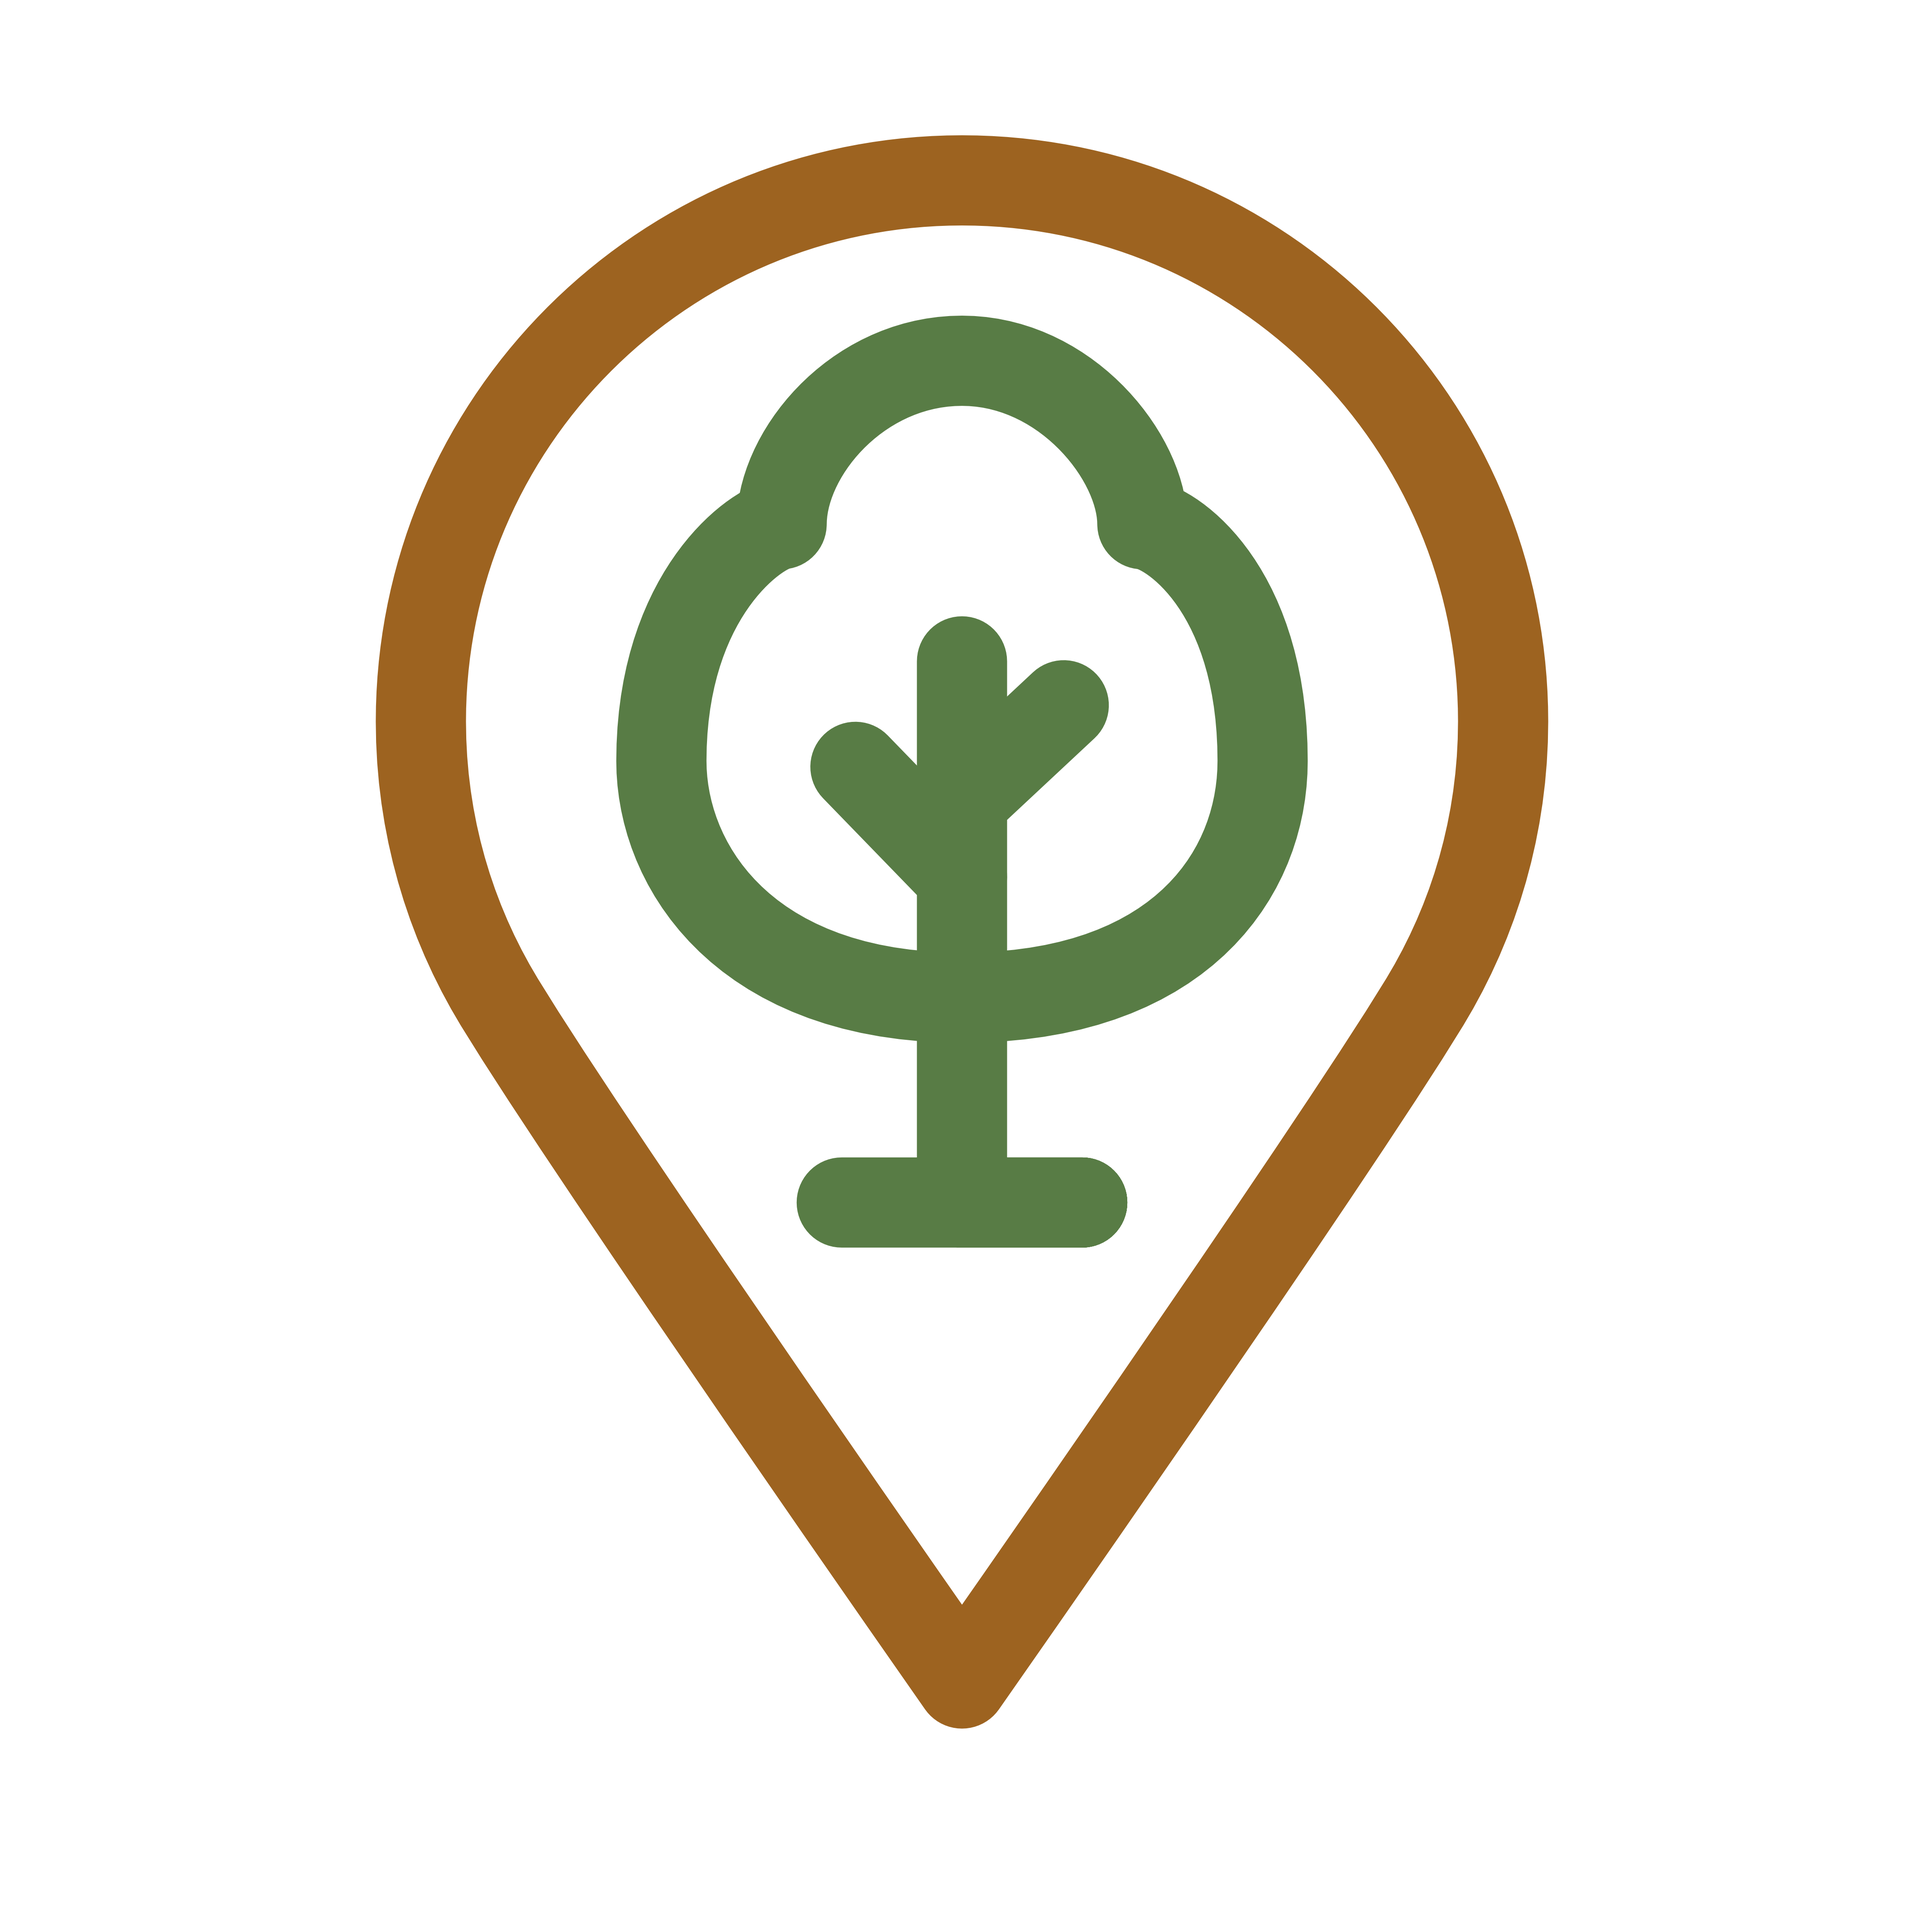
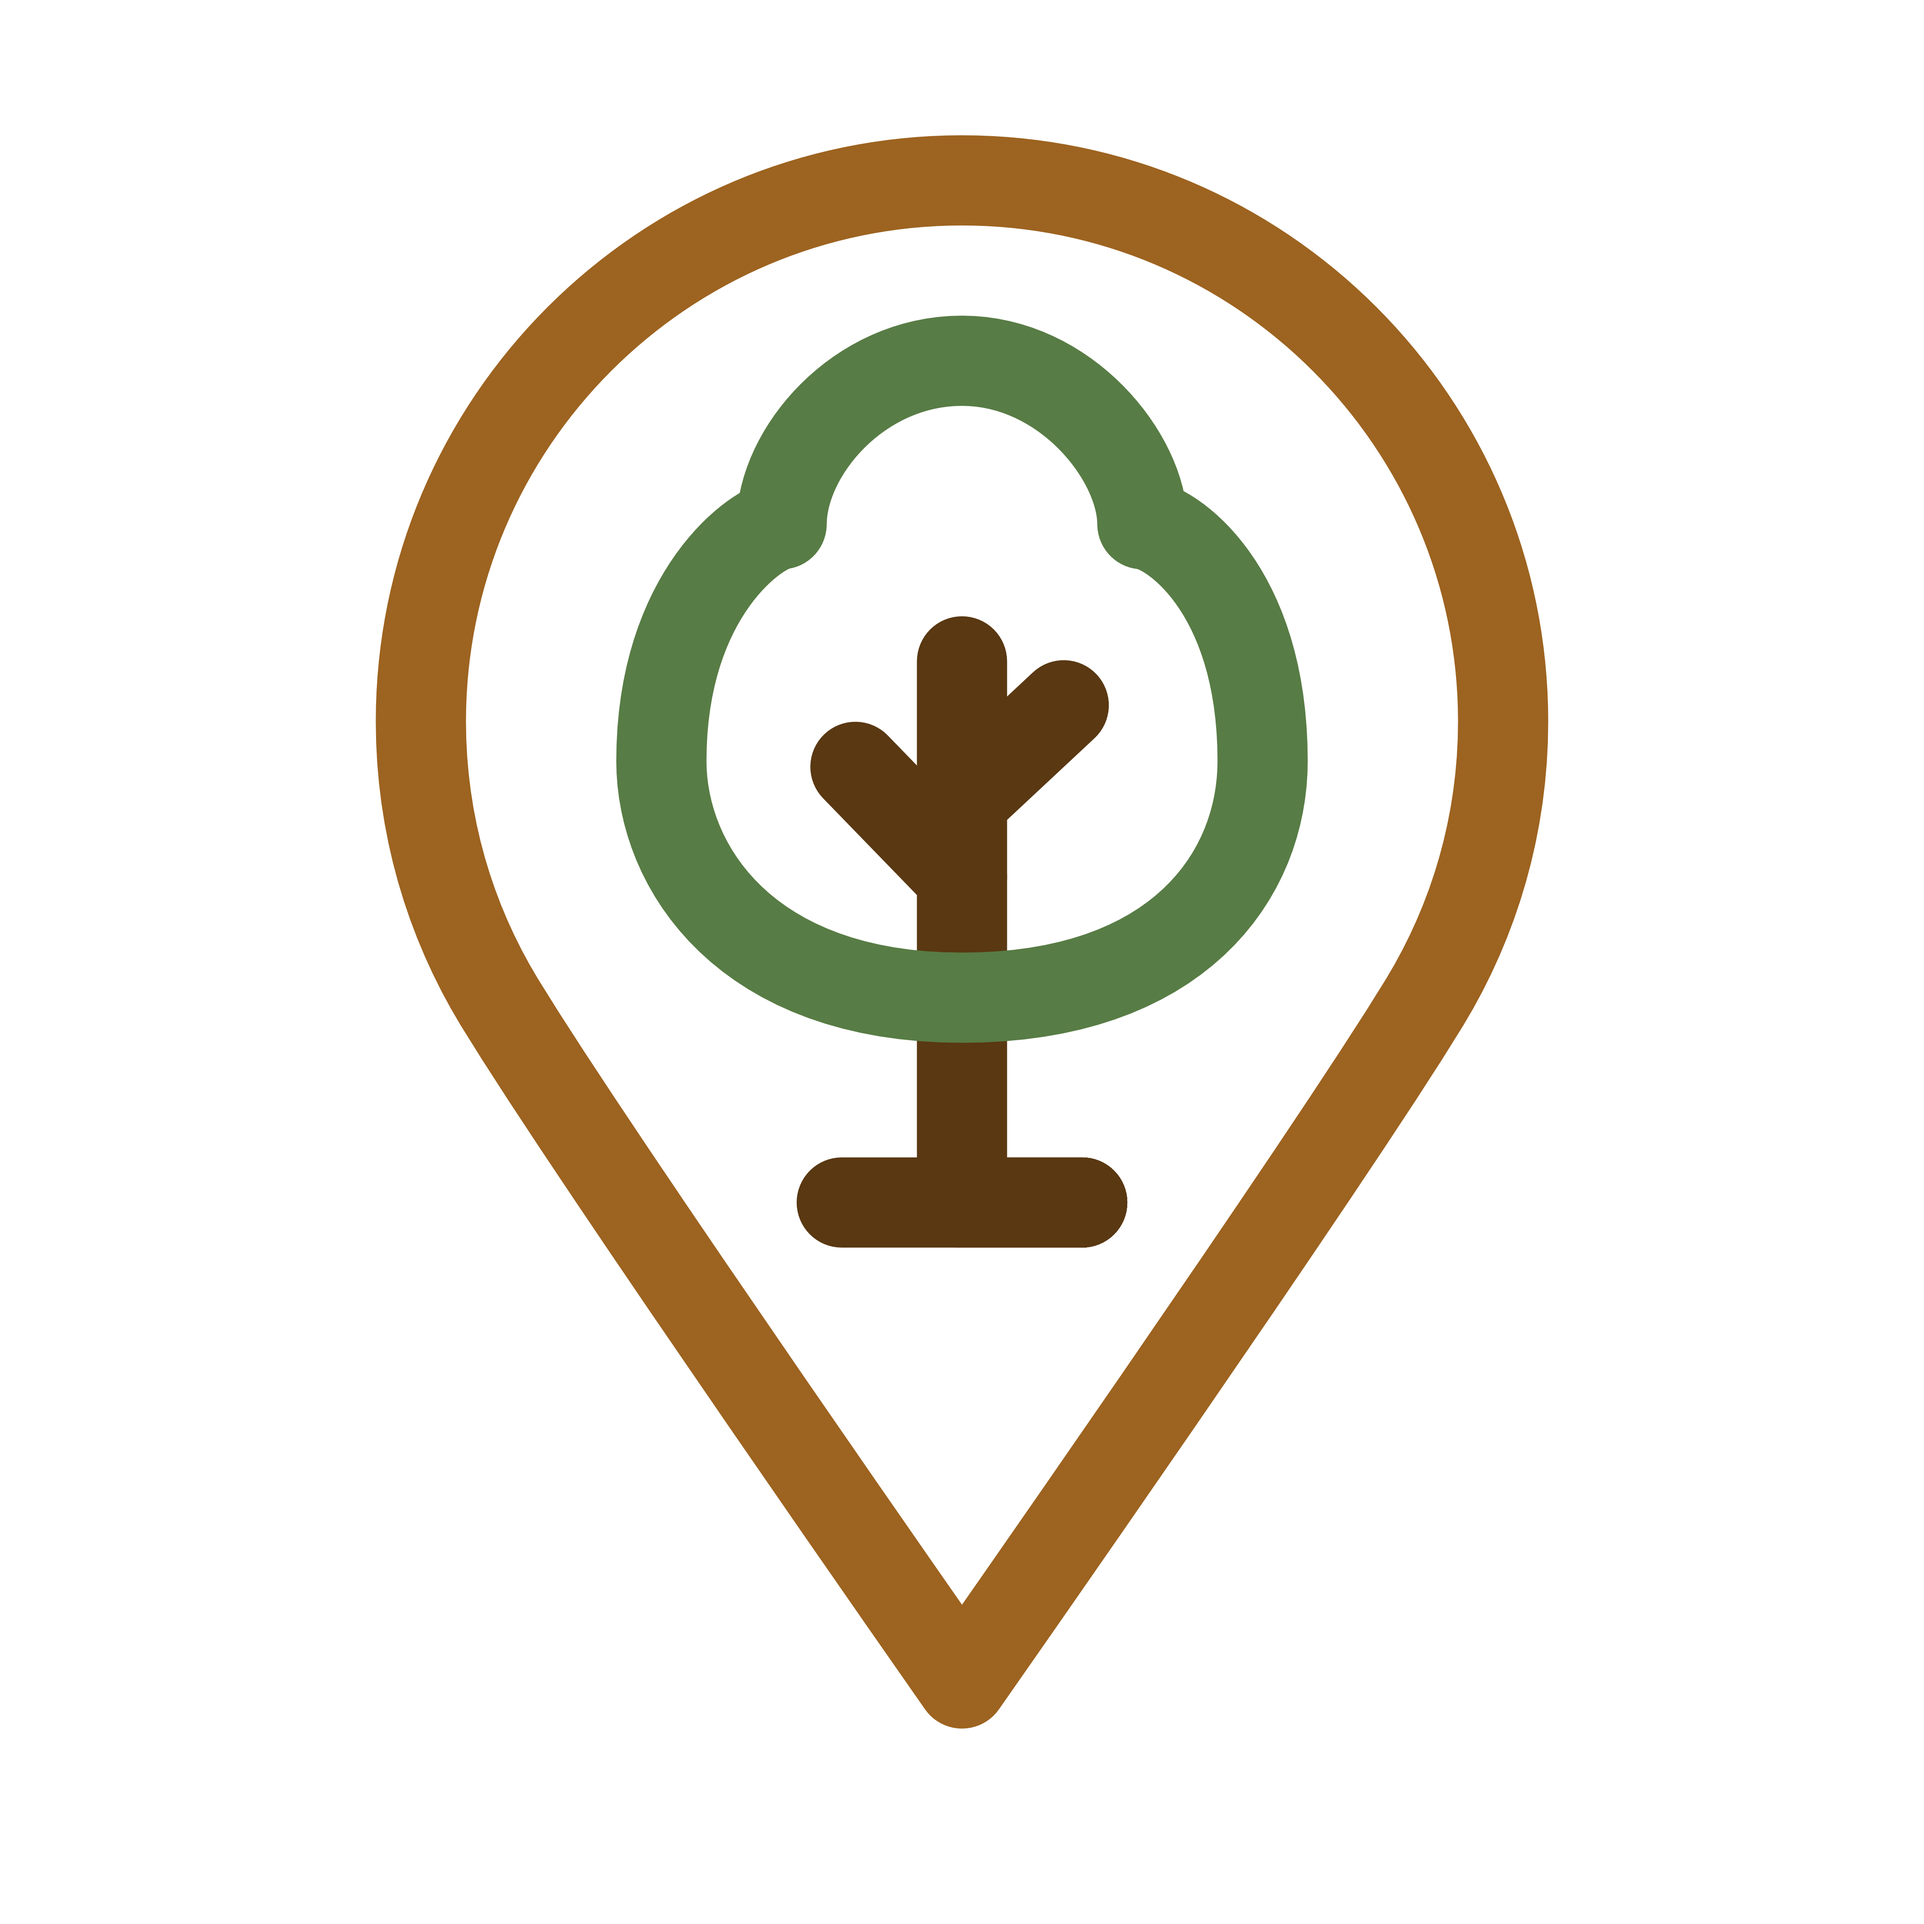
Update app metadata and assets

Changed region(s): [[0.4052, 0.3117, 0.5922, 0.4987], [0.4052, 0.5299, 0.5922, 0.6546]]

diff --git a/components/sections/webPageHeader/__tests__/WebPageHeader.test.tsx b/components/sections/webPageHeader/__tests__/WebPageHeader.test.tsx
@@ -3,6 +3,7 @@ import { render, screen, fireEvent, waitFor, within } from '@testing-library/rea
 import { Size } from '@/constants/theme';
 import { WebPageHeader } from '../WebPageHeader';
 import { IconHelpCircle } from '@/assets/icons';
+import { useColorScheme } from '@/hooks/useColorScheme';
 import { useResponsive } from '@/hooks/useResponsive';
 import { StyleSheet, View } from 'react-native';
 
@@ -18,6 +19,10 @@ jest.mock('@/hooks/useResponsive', () => ({
   useResponsive: jest.fn(),
 }));
 
+jest.mock('@/hooks/useColorScheme', () => ({
+  useColorScheme: jest.fn(),
+}));
+
 const mockFetchSpeciesList = jest.fn();
 const mockFetchRelativeRankings = jest.fn();
 
@@ -28,9 +33,12 @@ jest.mock('@/data/api', () => ({
 }));
 
 const mockUseResponsive = useResponsive as jest.MockedFunction<typeof useResponsive>;
+const mockUseColorScheme = useColorScheme as jest.MockedFunction<typeof useColorScheme>;
 
 const SEARCH_WRAPPER_LAYOUT_HEIGHT = 40;
 const SEARCH_DEBOUNCE_MS = 400;
+const DEFAULT_LOGO_LIGHT = require('@/assets/images/wherewild.png');
+const DEFAULT_LOGO_DARK = require('@/assets/images/wherewild-dark-background.png');
 
 describe('WebPageHeader', () => {
   const setupSearchVisibility = () => {
@@ -52,6 +60,7 @@ describe('WebPageHeader', () => {
   beforeEach(() => {
     mockPush.mockClear();
     mockPathname = '/';
+    mockUseColorScheme.mockReturnValue('light');
     mockUseResponsive.mockReturnValue({ breakpoint: 'desktop' } as ReturnType<typeof useResponsive>);
     mockFetchSpeciesList.mockResolvedValue([]);
     mockFetchRelativeRankings.mockResolvedValue({
@@ -78,6 +87,20 @@ describe('WebPageHeader', () => {
     expect(screen.getByLabelText('Settings')).toBeTruthy();
     expect(screen.getByLabelText('Filter search results')).toBeTruthy();
     expect(screen.getByLabelText('Reset filters')).toBeTruthy();
+  });
+
+  it('uses the dark-background logo asset in dark mode', () => {
+    mockUseColorScheme.mockReturnValue('dark');
+
+    render(<WebPageHeader />);
+
+    expect(screen.getByLabelText('WhereWild logo').props.source).toBe(DEFAULT_LOGO_DARK);
+  });
+
+  it('uses the light logo asset by default in light mode', () => {
+    render(<WebPageHeader />);
+
+    expect(screen.getByLabelText('WhereWild logo').props.source).toBe(DEFAULT_LOGO_LIGHT);
   });
 
   it('navigates to about when default About action is pressed', () => {

diff --git a/components/sections/webPageHeader/WebPageHeader.tsx b/components/sections/webPageHeader/WebPageHeader.tsx
@@ -62,7 +62,8 @@ export type WebPageHeaderProps = {
   onLayout?: (event: LayoutChangeEvent) => void;
 };
 
-const DEFAULT_LOGO = require('@/assets/images/wherewild.png');
+const DEFAULT_LOGO_LIGHT = require('@/assets/images/wherewild.png');
+const DEFAULT_LOGO_DARK = require('@/assets/images/wherewild-dark-background.png');
 
 /**
  * App-level header with navigation actions, search input, and optional compact menu.
@@ -70,7 +71,7 @@ const DEFAULT_LOGO = require('@/assets/images/wherewild.png');
  */
 export function WebPageHeader({
   title = 'WhereWild',
-  logoSource = DEFAULT_LOGO,
+  logoSource,
   searchPlaceholder = 'Search',
   searchInputProps,
   actions,
@@ -94,6 +95,7 @@ export function WebPageHeader({
   const scheme = useColorScheme();
   const mode = scheme === 'dark' ? 'dark' : 'light';
   const palette = Colors[mode];
+  const resolvedLogoSource = logoSource ?? (mode === 'dark' ? DEFAULT_LOGO_DARK : DEFAULT_LOGO_LIGHT);
   const responsive = useResponsive();
   const isCompact = responsive.breakpoint !== 'desktop';
   const safeAreaInsets = React.useContext(SafeAreaInsetsContext);
@@ -129,7 +131,7 @@ export function WebPageHeader({
   const logoContent = (
     <>
       <Image
-        source={logoSource}
+        source={resolvedLogoSource}
         style={isCompact ? styles.logoMobile : styles.logo}
         resizeMode="contain"
         accessibilityLabel="WhereWild logo"

diff --git a/app.config.js b/app.config.js
@@ -1,15 +1,11 @@
-const appJson = require('./app.json');
-
 const fallbackBackendUrl = 'http://localhost:8000';
 const stadiaMapsApiKey = process.env.APP_STADIA_MAPS_API_KEY?.trim() || null;
 
-module.exports = () => ({
-  expo: {
-    ...appJson.expo,
+module.exports = ({ config }) => ({
+  ...config,
     extra: {
-      ...appJson.expo.extra,
+      ...config.extra,
       backendUrl: process.env.APP_BACKEND_URL || fallbackBackendUrl,
       stadiaMapsApiKey,
     },
-  },
 });
